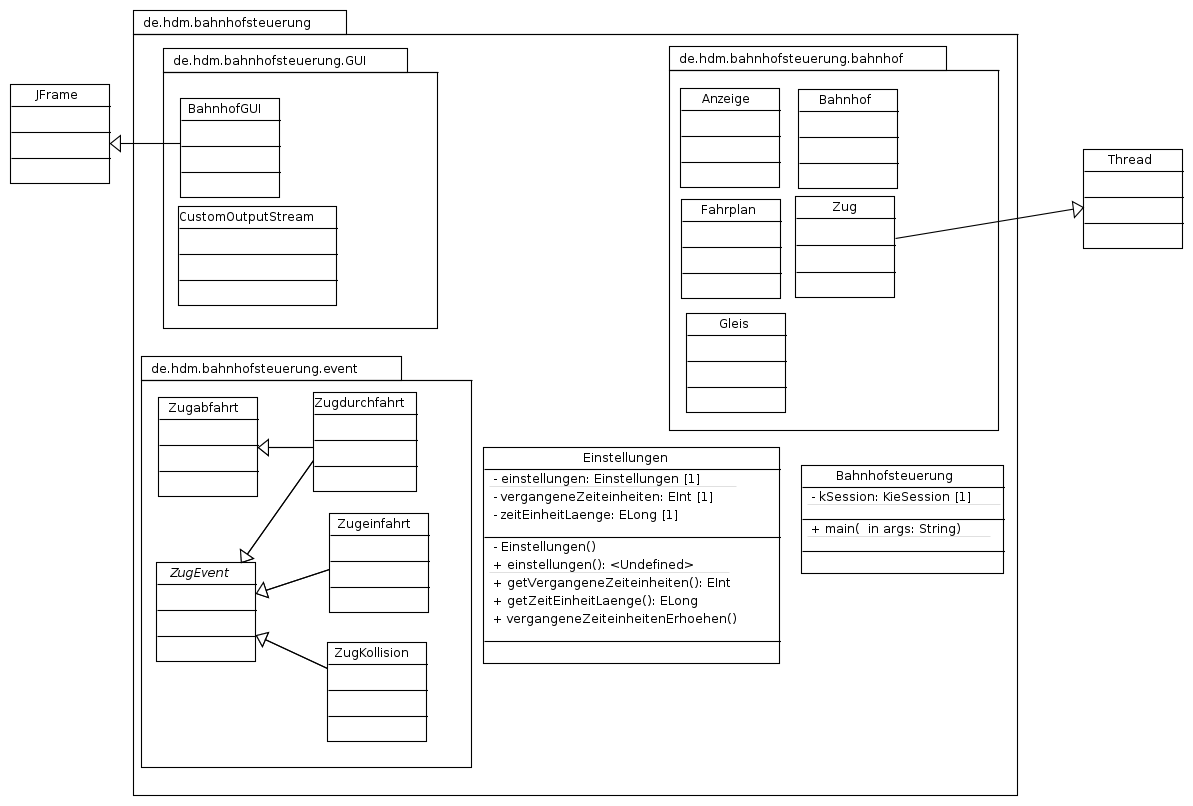
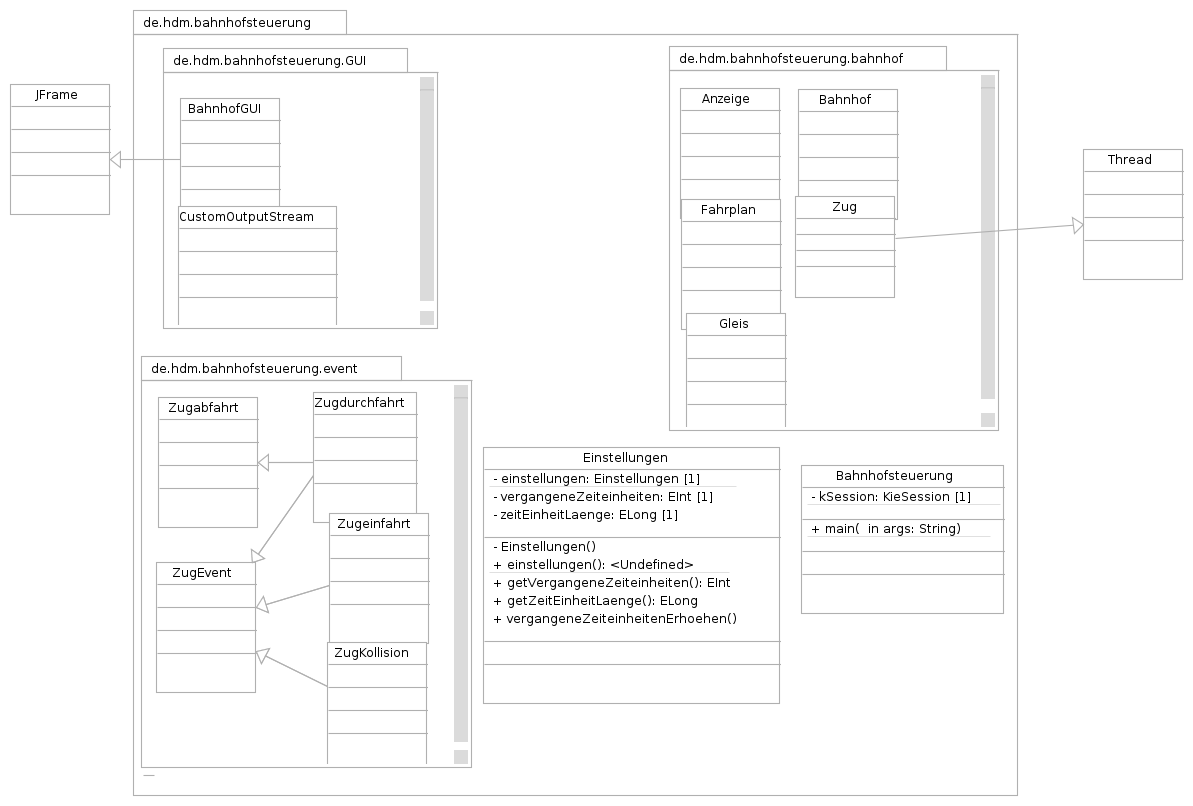
Klassendiagramme verbessert

diff --git a/bahnhofsteuerung/Bahnhofsteuerung/src/main/java/de/hdm/bahnhofsteuerung/bahnhof/Zug.java b/bahnhofsteuerung/Bahnhofsteuerung/src/main/java/de/hdm/bahnhofsteuerung/bahnhof/Zug.java
@@ -9,12 +9,32 @@ import de.hdm.bahnhofsteuerung.event.Zugabfahrt;
 import de.hdm.bahnhofsteuerung.event.Zugdurchfahrt;
 import de.hdm.bahnhofsteuerung.event.Zugeinfahrt;
 
+/**
+ * Stellt einen Zug dar, der selbständig seinen Fahrplan abfährt.
+ * 
+ * @param nummer Nummer des Zugs
+ * @param fahrplan Fahrplan, den der Zug abfahren soll
+ * @param ziel Name des Zielbahnhofs. Nur wichtig für die Anzeige
+ * @param kSession Die KieSession die das System benutzt. Wichtig um
+ *  die Events in die richtige Session einzufügen
+ * @author Andreas Herrmann
+ * 
+ */
 public class Zug extends Thread {
 	private int nummer; //Nummer des Zuges
 	private Vector<Fahrplan> fahrplan;
 	private String ziel;
 	private KieSession kSession; //Session in die die Ereignisse eingefügt werden sollen
 	
+	/**
+	 * Konstruktor der Klasse
+	 * Initialisiert alle wichtigen Parameter der Klasse, gibt aus, dass der Zug gestartet wurde
+	 * und startet den Thread, in dem der Zug abläuft
+	 * @param kSession Die KieSession der Applikation
+	 * @param nummer Die Nummer des Zuges
+	 * @param fahrplan Die Stationen, die abgefahren werden sollen
+	 * @param ziel Der Name des Zielbahnhofs
+	 */
 	public Zug (KieSession kSession, int nummer, Vector<Fahrplan> fahrplan, String ziel){
 		this.kSession=kSession;
 		this.nummer=nummer;
@@ -23,6 +43,7 @@ public class Zug extends Thread {
 		System.out.println("Zug "+nummer+" gestartet");
 		start();
 	}
+	@Override
 	public void run(){
 		Einstellungen einst = Einstellungen.einstellungen();
 		//Der Thread soll solange laufen, bis er mit interrupt() angehalten wird
@@ -50,10 +71,19 @@ public class Zug extends Thread {
 			}
 		}
 	}
-
+	
+	/**
+	 * Gibt die Nummer des Zuges zurück
+	 * @return Zugnummer
+	 */
 	public int getNummer() {
 		return nummer;
 	}
+	
+	/**
+	 * 
+	 * @return
+	 */
 	public Vector<Fahrplan> getFahrplan() {
 		return fahrplan;
 	}

diff --git a/bahnhofsteuerung/Bahnhofsteuerung/src/main/java/de/hdm/bahnhofsteuerung/Bahnhofsteuerung.java b/bahnhofsteuerung/Bahnhofsteuerung/src/main/java/de/hdm/bahnhofsteuerung/Bahnhofsteuerung.java
@@ -22,6 +22,11 @@ import de.hdm.bahnhofsteuerung.bahnhof.Bahnhof;
 import de.hdm.bahnhofsteuerung.bahnhof.Fahrplan;
 import de.hdm.bahnhofsteuerung.bahnhof.Zug;
 
+/**
+ * Steuert den Ablauf des Programms und enthält die main-Funktion.
+ * @author Andreas Herrmann
+ *
+ */
 @SuppressWarnings("restriction")
 public class Bahnhofsteuerung {
 	private static KieSession kSession;
